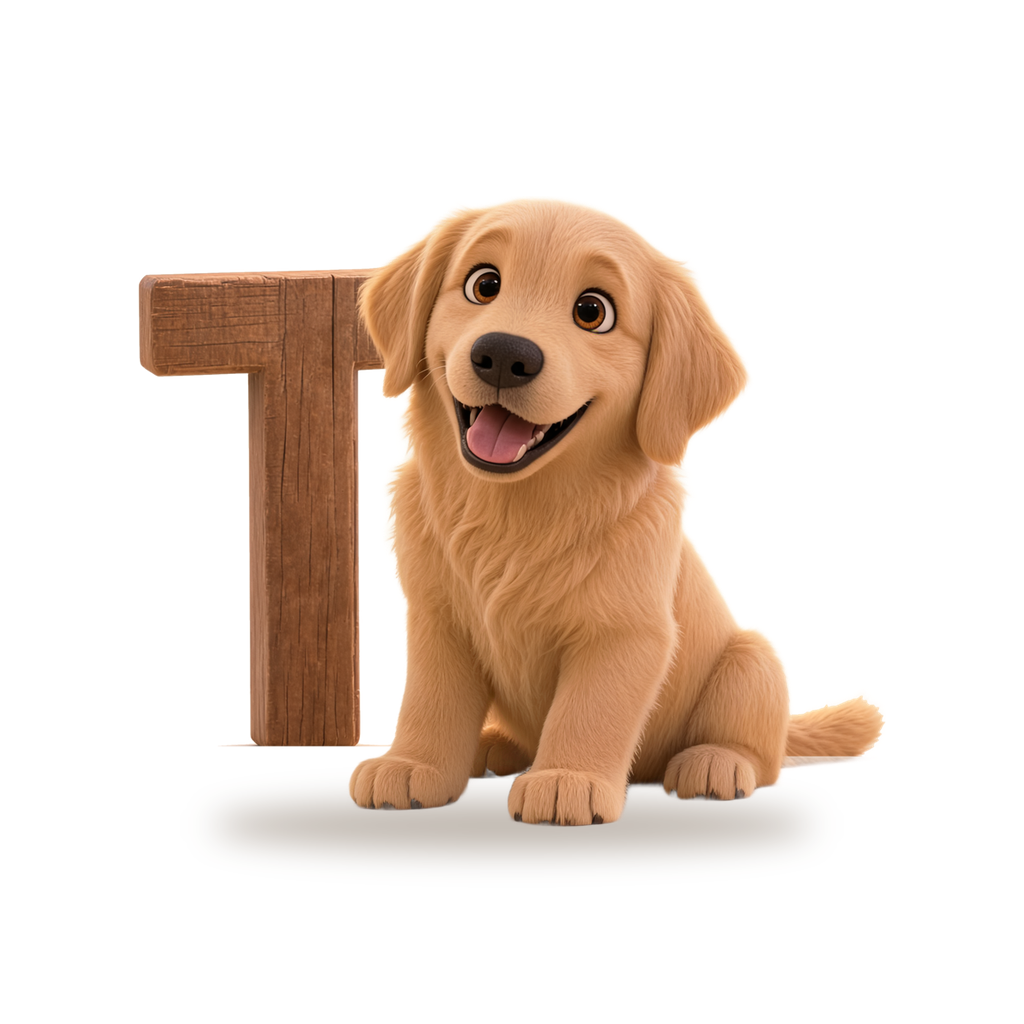
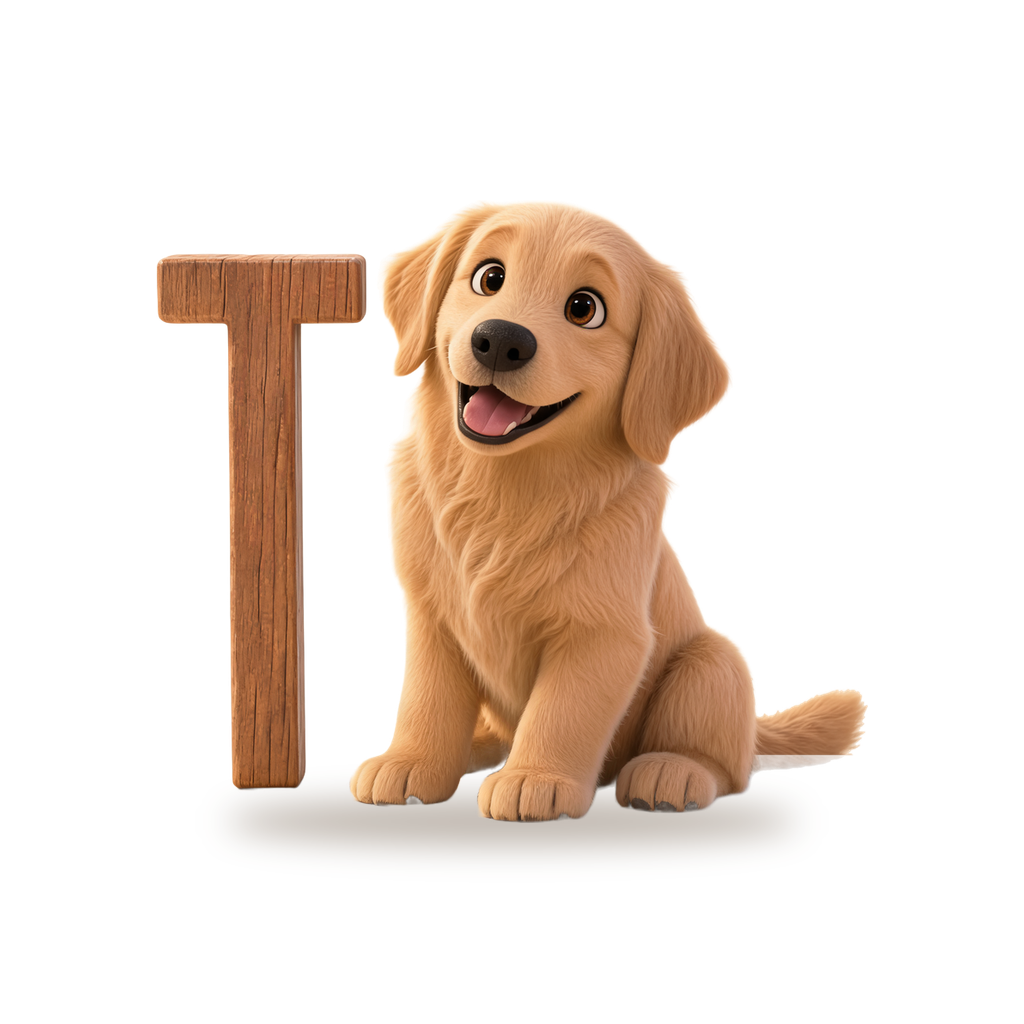
letter post: T new pose, whole T visible (redo5), t-sheet + preview

Changed region(s): [[0.125, 0.1875, 0.875, 0.8125]]

diff --git a/letter-post/MANIFEST.md b/letter-post/MANIFEST.md
@@ -25,7 +25,7 @@ Credits: 37 generations x 212.1 = 7,847.7.
 | Q | cutout/lucy-letter-q.webp | raw/Q-final.png | pass: Q-try2 (try1 tiny/garbled) |
 | R | cutout/lucy-letter-r.webp | raw/R-final.png | pass: redo2-alt1, big clean R beside her. Other run pick kept: raw/R-final-redo2pick.png (v1 kept: raw/R-final-v1.png, cutout/old-v1/) |
 | S | cutout/lucy-letter-s.webp | raw/S-final.png | pass: S-try1 |
-| T | cutout/lucy-letter-t.webp | raw/T-final.png | ok: redo4-try1, chunky T with its stem standing on the floor beside her (no floating, she does not hold it), Lucy at full size; right half of the top bar is tucked behind her ear. Letter + tail keyed in cutout (KEY="40,150,200,434;400,390,485,440"). v3 floating T kept: raw/T-final-v3.png, cutout/old-v3/; v2: raw/T-final-v2.png, cutout/old-v2/ |
+| T | cutout/lucy-letter-t.webp | raw/T-final.png | ok: redo5-try1, T stands by itself on the floor at her left with a clear gap, whole T (both bar ends + stem) visible, Lucy full size, not touching it. Nit: the T strokes are a bit slimmer than v4. Tail keyed in cutout (KEY="410,395,485,440"). v4 kept: raw/T-final-v4.png, cutout/old-v4/ |
 | U | cutout/lucy-letter-u.webp | raw/U-final.png | pass: U-try1; stray object at left edge removed in cutout |
 | V | cutout/lucy-letter-v.webp | raw/V-final.png | pass: redo2-alt1 (parallel run), clean V on the floor beside her; tail restored in cutout (KEY). Other run pick kept: raw/V-final-redo2pick.png (v1 kept: raw/V-final-v1.png, cutout/old-v1/) |
 | W | cutout/lucy-letter-w.webp | raw/W-final.png | flag: W-try2 CROPPED: lower half only (the full image had a 2nd floating Lucy head; try1 had a room background and 3 Vs). Lucy is lying down here. FLAG: weakest; redo if Bradley wants |
@@ -47,3 +47,7 @@ Bradley t774u: the T floats; the N is squeezed. Lucy must not hold or lift a let
 N: try1 drew an I, try2 no letter + room background, try3 no letter -> N unchanged (redo3-try3), still narrow.
 T: try1 picked (grounded); try2 no letter; try3 grounded but bar hidden more and tail cropped.
 cut_lp.py KEY now takes several boxes separated by ';'. Old vs new: nt-sheet.jpg.
+
+## Redo 5 T pose (2026-11-01, about 12:00 to 12:15 pm CT)
+Bradley t776u: the right half of the T's top bar was behind her ear. New pose with the same letter. Prompts p7/T-try1..3.txt (try1 T on the left with a gap, try2 Lucy lying beside the stem, try3 Lucy peeking under the bar), run in parallel on nodes 4OLL.. + copies ufZm.. and W0rY.. Gens gens-redo6-t.json, raws raw/T-redo5-try1..3.png. 3 x 212.1 = 636.3 credits.
+Picked try1. Try2 had no letter and a room background. Try3 had the full chunky bar above her head, but the T is huge, so Lucy shrinks in the circle and the cutout broke the stem. Comparison: t-sheet.jpg.
